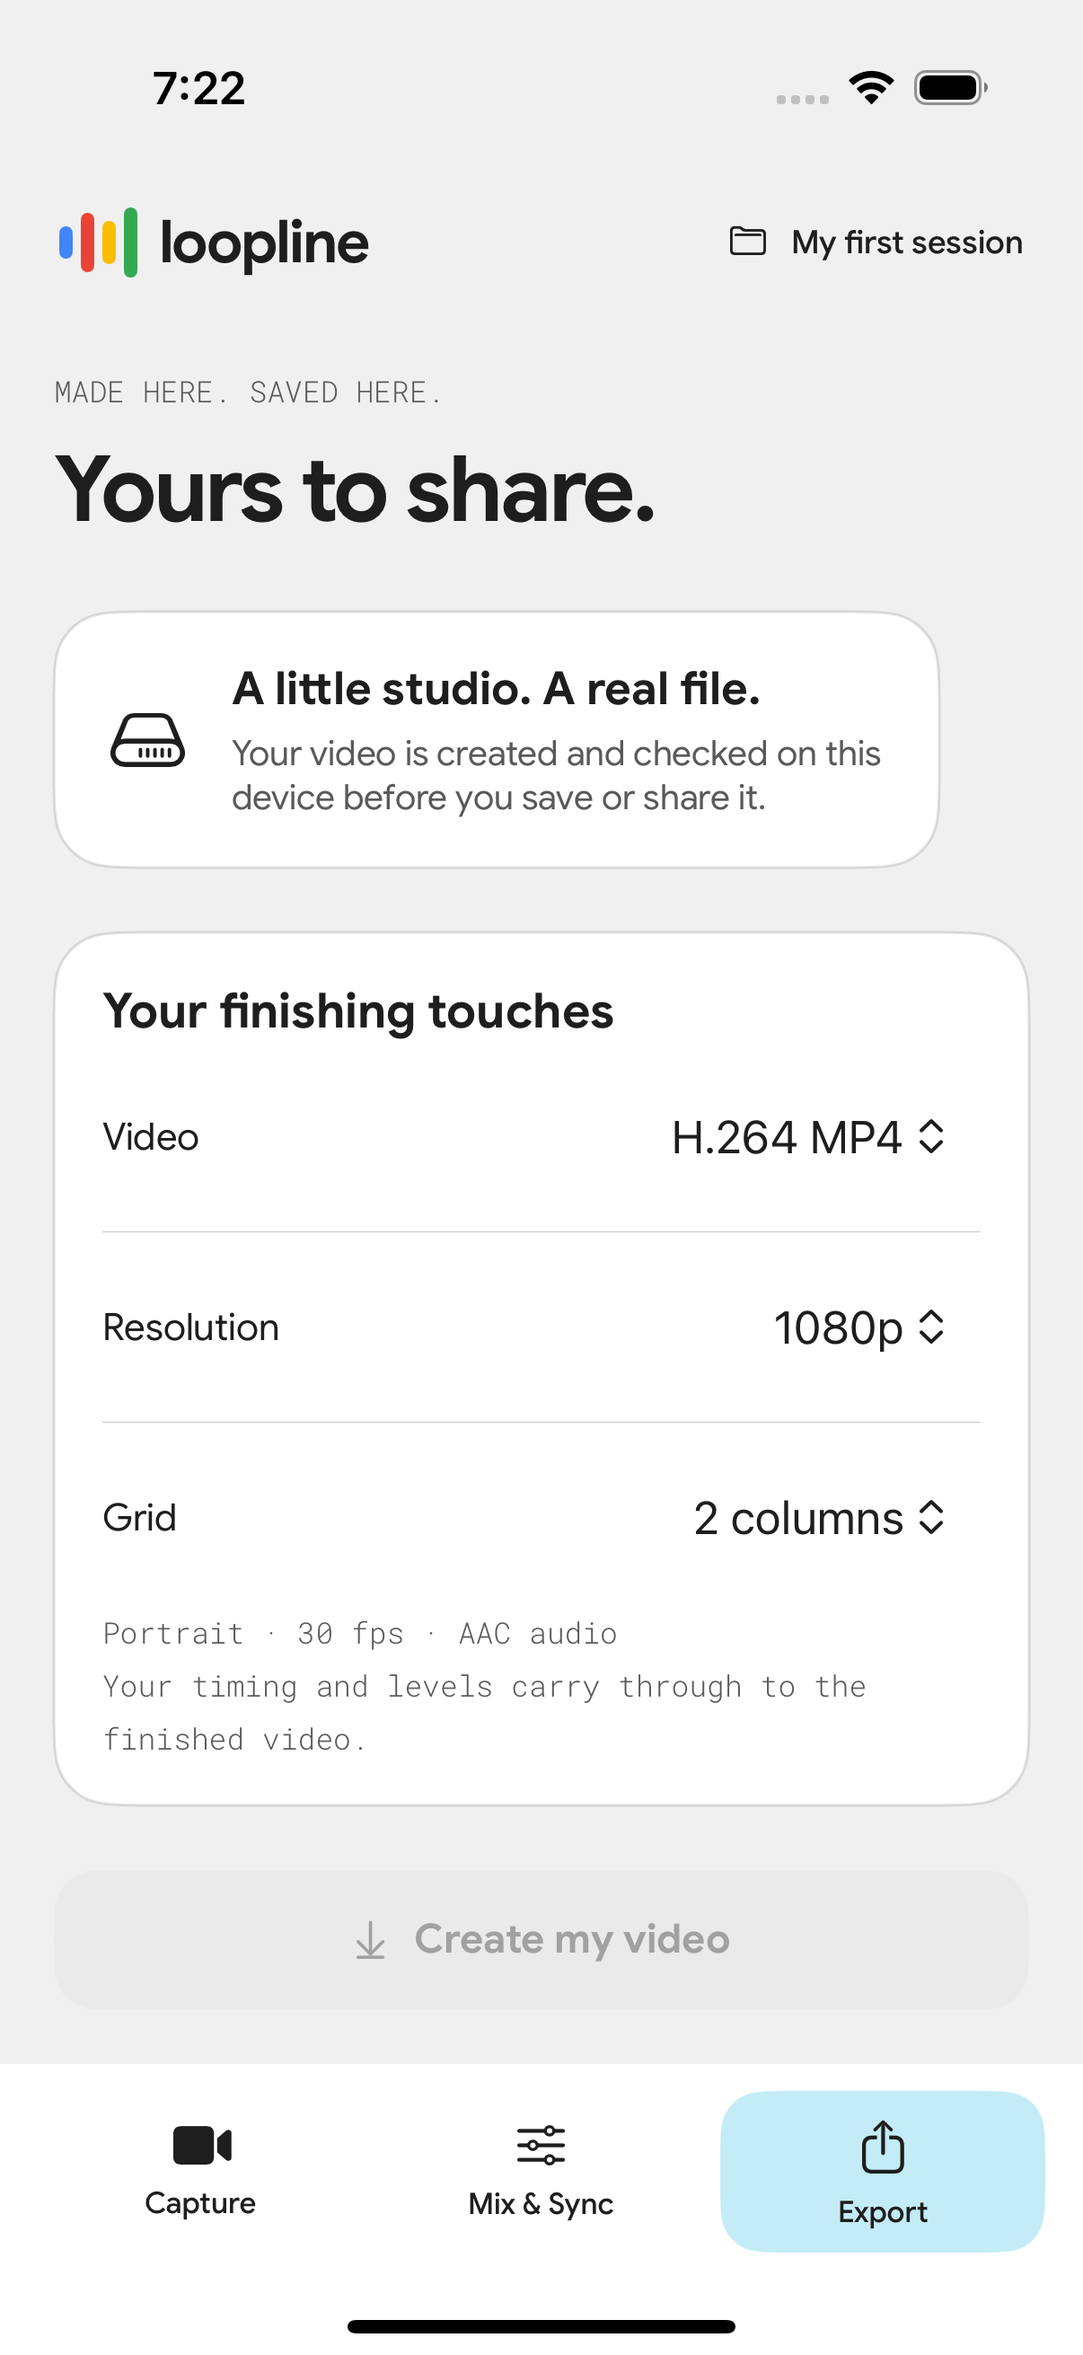
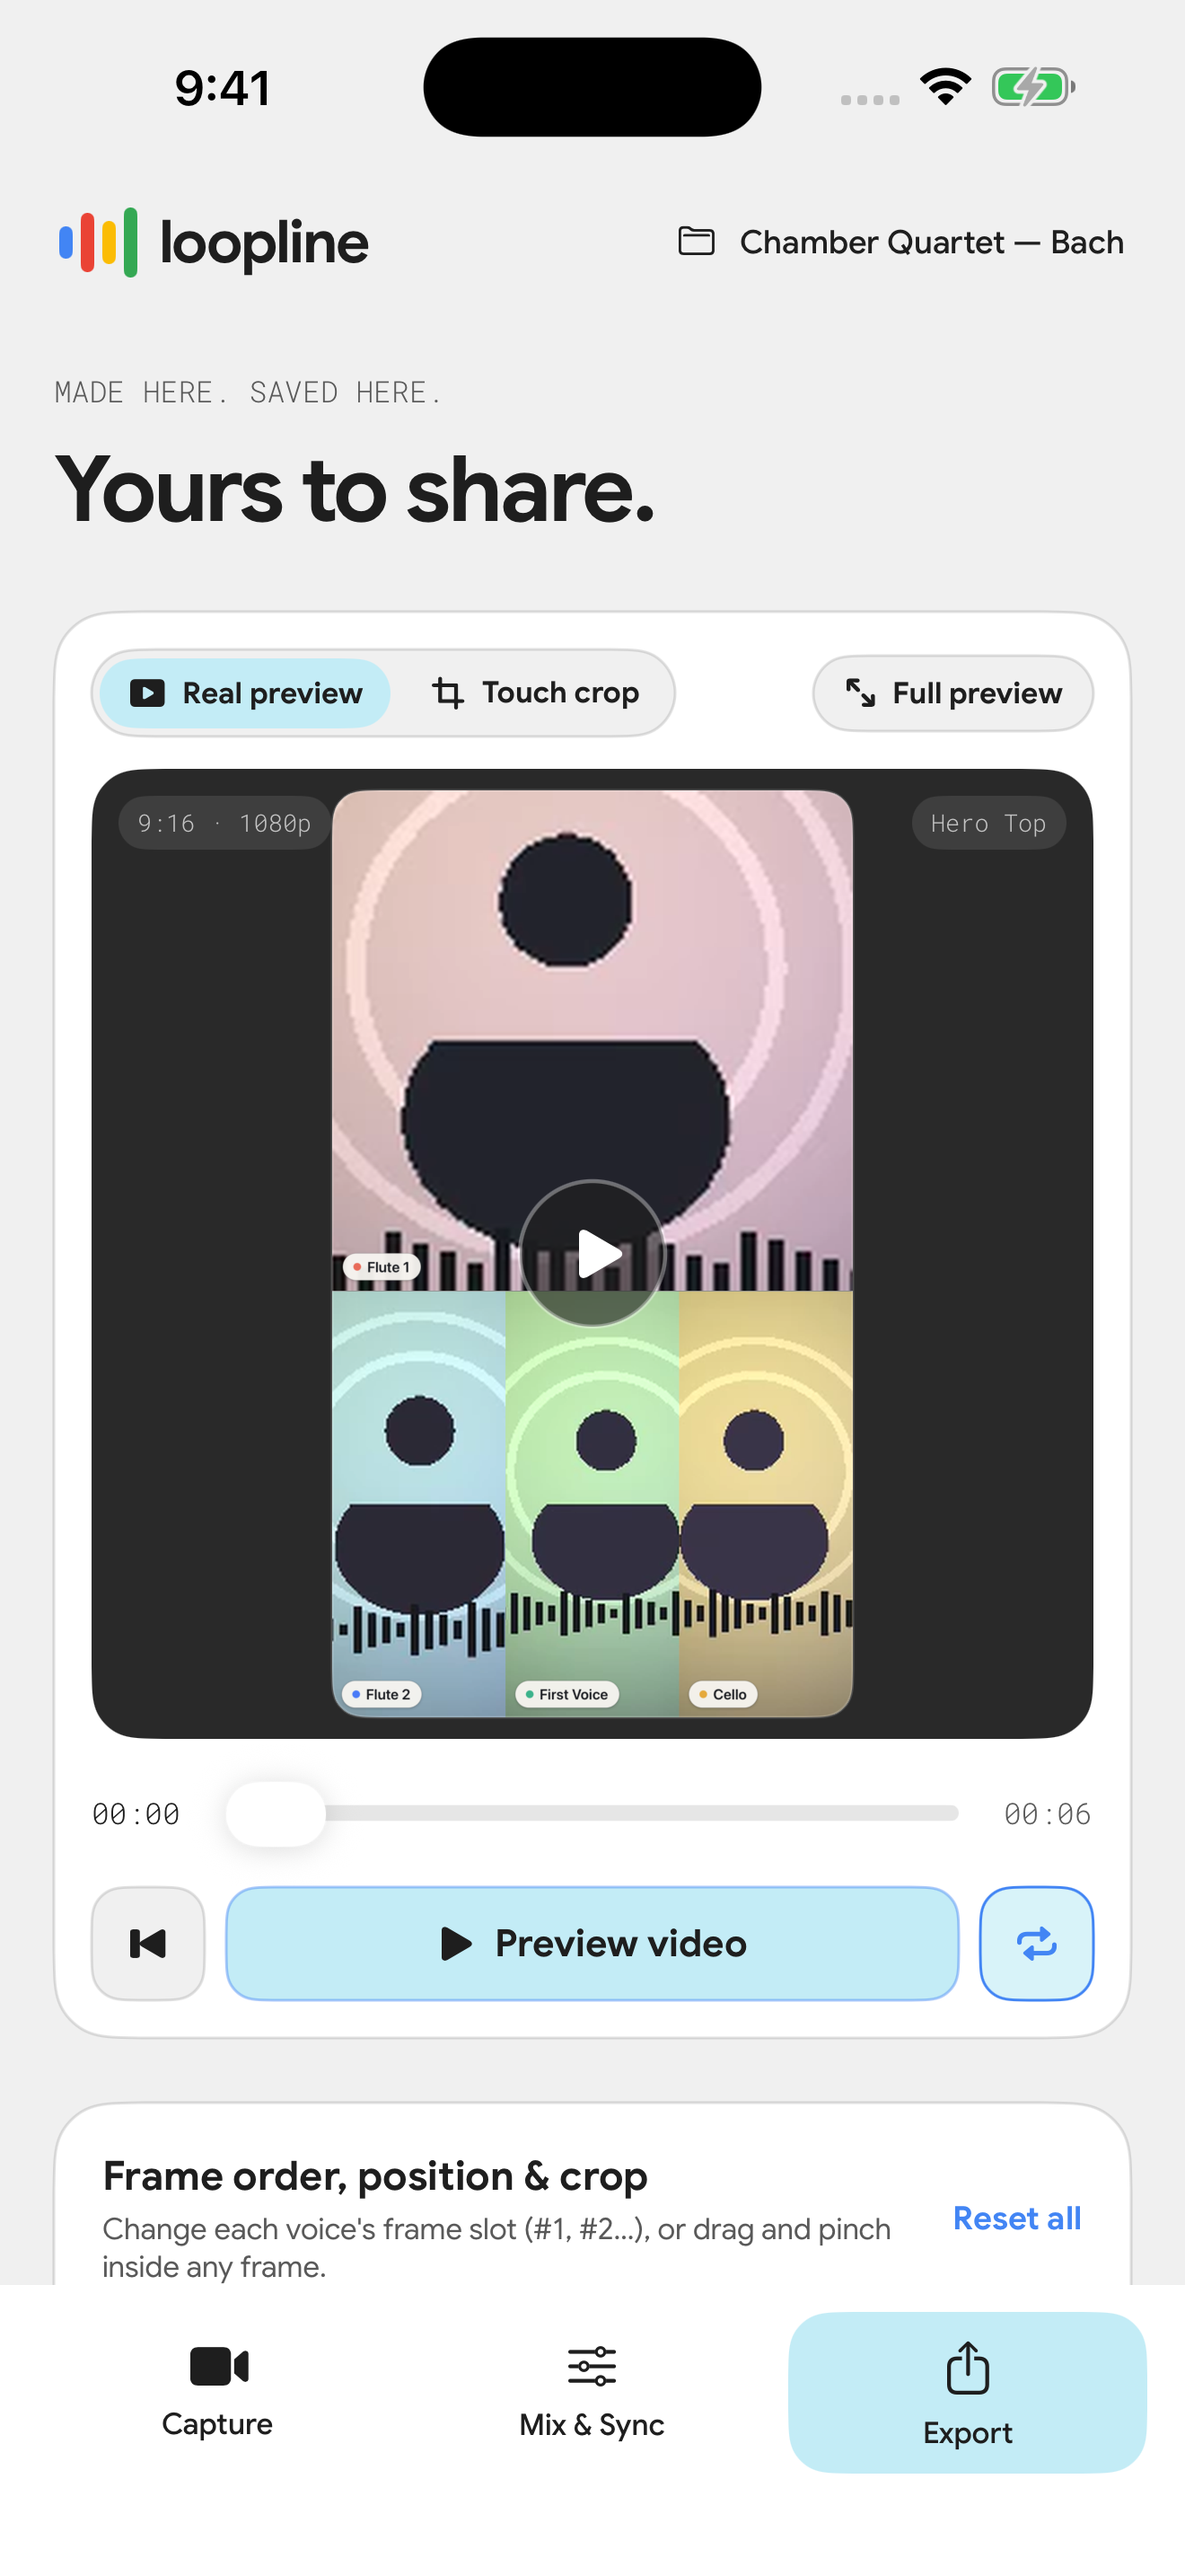
chore(screenshots): update docs screenshots and App Store generator from real iPhone & iPad simulators

diff --git a/scripts/generate_appstore_screenshots.swift b/scripts/generate_appstore_screenshots.swift
@@ -1,0 +1,249 @@
+#!/usr/bin/env swift
+import AppKit
+import CoreGraphics
+import Foundation
+
+let root = URL(fileURLWithPath: "/Users/sebas/Documents/loopline")
+let rawDir = root.appendingPathComponent("docs/screenshots")
+let outRoot = root.appendingPathComponent("build/appstore_screenshots")
+
+struct Accent {
+    let dot: NSColor
+    let pillBg: NSColor
+}
+
+let accents: [Accent] = [
+    Accent(dot: NSColor(srgbRed: 37/255, green: 99/255, blue: 235/255, alpha: 1),
+           pillBg: NSColor(srgbRed: 201/255, green: 237/255, blue: 248/255, alpha: 1)),
+    Accent(dot: NSColor(srgbRed: 16/255, green: 185/255, blue: 129/255, alpha: 1),
+           pillBg: NSColor(srgbRed: 209/255, green: 250/255, blue: 229/255, alpha: 1)),
+    Accent(dot: NSColor(srgbRed: 245/255, green: 158/255, blue: 11/255, alpha: 1),
+           pillBg: NSColor(srgbRed: 254/255, green: 243/255, blue: 199/255, alpha: 1)),
+    Accent(dot: NSColor(srgbRed: 239/255, green: 68/255, blue: 68/255, alpha: 1),
+           pillBg: NSColor(srgbRed: 254/255, green: 226/255, blue: 226/255, alpha: 1)),
+    Accent(dot: NSColor(srgbRed: 99/255, green: 102/255, blue: 241/255, alpha: 1),
+           pillBg: NSColor(srgbRed: 224/255, green: 231/255, blue: 255/255, alpha: 1)),
+]
+
+struct SceneMeta {
+    let index: Int
+    let badge: String
+    let title: String
+    let subtitle: String
+}
+
+let scenesByLocale: [String: [SceneMeta]] = [
+    "es-MX": [
+        SceneMeta(index: 1, badge: "01 · ESTUDIO EN IPHONE E IPAD", title: "Cada parte. Todo tú.", subtitle: "Graba voces o instrumentos con metrónomo visual, cuenta regresiva y monitoreo local."),
+        SceneMeta(index: 2, badge: "02 · VISTA PREVIA REAL Y COMPLETA", title: "Previsualiza tu arreglo.", subtitle: "Reproduce tu mosaico multipista completo en 9:16, 1:1 o 16:9 antes de exportar."),
+        SceneMeta(index: 3, badge: "03 · SINCRONIZACIÓN AL MILISEGUNDO", title: "Mejor en conjunto.", subtitle: "Alinea tus pistas con Sync Assist automático o ajusta cada voz con precisión."),
+        SceneMeta(index: 4, badge: "04 · ENCUADRE TÁCTIL Y ORDEN DE VOCES", title: "Encuadra cada toma.", subtitle: "Cambia el orden de los marcos, arrastra para encuadrar y haz zoom en cada video."),
+        SceneMeta(index: 5, badge: "05 · 100 % EN TU DISPOSITIVO", title: "Tus sesiones, contigo.", subtitle: "Organiza tus proyectos multipista sin cuentas, sin nube y con privacidad total.")
+    ],
+    "en-US": [
+        SceneMeta(index: 1, badge: "01 · IPHONE & IPAD STUDIO", title: "Every part. All you.", subtitle: "Record vocals or instruments with visual count-in, metronome, and local monitoring."),
+        SceneMeta(index: 2, badge: "02 · REAL & FULL VIDEO PREVIEW", title: "Preview before export.", subtitle: "Play back your complete multi-track collage in 9:16, 1:1, or 16:9 before rendering."),
+        SceneMeta(index: 3, badge: "03 · MILLISECOND SYNC ASSIST", title: "Better together.", subtitle: "Align every take automatically with Sync Assist or nudge timing by milliseconds."),
+        SceneMeta(index: 4, badge: "04 · TOUCH CROP & VOICE REORDERING", title: "Frame every performance.", subtitle: "Reorder voice slots and drag or pinch inside any frame in the enlarged Touch Crop canvas."),
+        SceneMeta(index: 5, badge: "05 · 100% ON-DEVICE PRIVACY", title: "Your sessions, saved locally.", subtitle: "Manage multi-part arrangements offline with zero accounts, zero cloud, and zero tracking.")
+    ]
+]
+
+let bgColor = NSColor(srgbRed: 244/255, green: 245/255, blue: 242/255, alpha: 1)
+let inkPrimary = NSColor(srgbRed: 29/255, green: 32/255, blue: 31/255, alpha: 1)
+let inkSecondary = NSColor(srgbRed: 82/255, green: 88/255, blue: 86/255, alpha: 1)
+
+func renderPoster(
+    width: Int,
+    height: Int,
+    rawURL: URL,
+    meta: SceneMeta,
+    accent: Accent,
+    isIPad: Bool,
+    outURL: URL
+) throws {
+    guard let rawImage = NSImage(contentsOf: rawURL),
+          let rawCG = rawImage.cgImage(forProposedRect: nil, context: nil, hints: nil) else {
+        throw NSError(domain: "ScreenshotGen", code: 1, userInfo: [NSLocalizedDescriptionKey: "Failed to load \(rawURL.path)"])
+    }
+
+    let colorSpace = CGColorSpace(name: CGColorSpace.sRGB)!
+    guard let ctx = CGContext(
+        data: nil,
+        width: width,
+        height: height,
+        bitsPerComponent: 8,
+        bytesPerRow: width * 4,
+        space: colorSpace,
+        bitmapInfo: CGImageAlphaInfo.noneSkipLast.rawValue
+    ) else {
+        throw NSError(domain: "ScreenshotGen", code: 2, userInfo: nil)
+    }
+
+    let W = CGFloat(width)
+    let H = CGFloat(height)
+
+    ctx.translateBy(x: 0, y: H)
+    ctx.scaleBy(x: 1, y: -1)
+
+    let nsCtx = NSGraphicsContext(cgContext: ctx, flipped: true)
+    NSGraphicsContext.saveGraphicsState()
+    NSGraphicsContext.current = nsCtx
+
+    // Fill background
+    bgColor.setFill()
+    NSBezierPath(rect: NSRect(x: 0, y: 0, width: W, height: H)).fill()
+
+    let marginX: CGFloat = isIPad ? 140 : 84
+    var cursorY: CGFloat = isIPad ? 92 : 88
+
+    let badgeFont = NSFont.monospacedSystemFont(ofSize: isIPad ? 28 : 25, weight: .medium)
+    let titleFont = NSFont.systemFont(ofSize: isIPad ? 80 : 68, weight: .bold)
+    let subFont = NSFont.systemFont(ofSize: isIPad ? 42 : 36, weight: .regular)
+
+    // 1. Pill badge
+    let badgeAttrs: [NSAttributedString.Key: Any] = [
+        .font: badgeFont,
+        .foregroundColor: inkPrimary,
+        .kern: 1.2
+    ]
+    let badgeStr = NSAttributedString(string: meta.badge, attributes: badgeAttrs)
+    let badgeSize = badgeStr.size()
+    let pillH: CGFloat = isIPad ? 64 : 58
+    let pillW: CGFloat = badgeSize.width + 86
+
+    let pillRect = NSRect(x: marginX, y: cursorY, width: pillW, height: pillH)
+    accent.pillBg.setFill()
+    NSBezierPath(roundedRect: pillRect, xRadius: pillH / 2, yRadius: pillH / 2).fill()
+
+    let dotR: CGFloat = 10
+    let dotRect = NSRect(x: marginX + 22, y: cursorY + (pillH - dotR * 2) / 2, width: dotR * 2, height: dotR * 2)
+    accent.dot.setFill()
+    NSBezierPath(ovalIn: dotRect).fill()
+
+    badgeStr.draw(at: NSPoint(x: marginX + 54, y: cursorY + (pillH - badgeSize.height) / 2))
+    cursorY += pillH + 26
+
+    // 2. Title
+    let titleAttrs: [NSAttributedString.Key: Any] = [
+        .font: titleFont,
+        .foregroundColor: inkPrimary,
+        .kern: -1.4
+    ]
+    let titleStr = NSAttributedString(string: meta.title, attributes: titleAttrs)
+    let titleSize = titleStr.size()
+    titleStr.draw(at: NSPoint(x: marginX, y: cursorY))
+    cursorY += titleSize.height + 16
+
+    // 3. Subtitle wrapped
+    let para = NSMutableParagraphStyle()
+    para.lineSpacing = 6
+    let subAttrs: [NSAttributedString.Key: Any] = [
+        .font: subFont,
+        .foregroundColor: inkSecondary,
+        .paragraphStyle: para
+    ]
+    let maxTextW = W - marginX * 2
+    let subStr = NSAttributedString(string: meta.subtitle, attributes: subAttrs)
+    let subBounds = subStr.boundingRect(
+        with: NSSize(width: maxTextW, height: 400),
+        options: [.usesLineFragmentOrigin, .usesFontLeading]
+    )
+    subStr.draw(
+        with: NSRect(x: marginX, y: cursorY, width: maxTextW, height: ceil(subBounds.height) + 12),
+        options: [.usesLineFragmentOrigin, .usesFontLeading]
+    )
+    cursorY += ceil(subBounds.height) + (isIPad ? 46 : 42)
+
+    // 4. Device Bezel + Raw Screenshot
+    let bottomMargin: CGFloat = isIPad ? 64 : 56
+    let availH = H - cursorY - bottomMargin
+    let availW = W - marginX * 2
+    let bezelPad: CGFloat = isIPad ? 26 : 22
+
+    let rawW = CGFloat(rawCG.width)
+    let rawH = CGFloat(rawCG.height)
+    let scale = min((availW - bezelPad * 2) / rawW, (availH - bezelPad * 2) / rawH)
+    let screenW = round(rawW * scale)
+    let screenH = round(rawH * scale)
+
+    let bezelW = screenW + bezelPad * 2
+    let bezelH = screenH + bezelPad * 2
+    let bezelX = round((W - bezelW) / 2)
+    let bezelY = round(cursorY + (availH - bezelH) / 2)
+
+    let outerRadius: CGFloat = isIPad ? 54 : 68
+    let innerRadius: CGFloat = isIPad ? 36 : 50
+
+    // Soft shadow + outer bezel
+    NSGraphicsContext.saveGraphicsState()
+    let shadow = NSShadow()
+    shadow.shadowOffset = NSSize(width: 0, height: -18)
+    shadow.shadowBlurRadius = 36
+    shadow.shadowColor = NSColor(srgbRed: 15/255, green: 23/255, blue: 42/255, alpha: 0.20)
+    shadow.set()
+
+    let bezelRect = NSRect(x: bezelX, y: bezelY, width: bezelW, height: bezelH)
+    let bezelPath = NSBezierPath(roundedRect: bezelRect, xRadius: outerRadius, yRadius: outerRadius)
+    NSColor(srgbRed: 26/255, green: 28/255, blue: 30/255, alpha: 1).setFill()
+    bezelPath.fill()
+    NSGraphicsContext.restoreGraphicsState()
+
+    // Subtle bezel border
+    NSColor(srgbRed: 68/255, green: 72/255, blue: 76/255, alpha: 1).setStroke()
+    bezelPath.lineWidth = 3
+    bezelPath.stroke()
+
+    // Clip inner screen and draw CGImage (unflipped inside CGContext or via NSImage)
+    NSGraphicsContext.saveGraphicsState()
+    let screenRect = NSRect(x: bezelX + bezelPad, y: bezelY + bezelPad, width: screenW, height: screenH)
+    let screenClip = NSBezierPath(roundedRect: screenRect, xRadius: innerRadius, yRadius: innerRadius)
+    screenClip.addClip()
+
+    nsCtx.imageInterpolation = .high
+    rawImage.draw(
+        in: screenRect,
+        from: NSRect(x: 0, y: 0, width: rawImage.size.width, height: rawImage.size.height),
+        operation: .copy,
+        fraction: 1.0,
+        respectFlipped: true,
+        hints: [.interpolation: NSImageInterpolation.high]
+    )
+    NSGraphicsContext.restoreGraphicsState()
+
+    NSGraphicsContext.restoreGraphicsState()
+
+    guard let outCG = ctx.makeImage() else {
+        throw NSError(domain: "ScreenshotGen", code: 3, userInfo: nil)
+    }
+    let rep = NSBitmapImageRep(cgImage: outCG)
+    guard let pngData = rep.representation(using: .png, properties: [:]) else {
+        throw NSError(domain: "ScreenshotGen", code: 4, userInfo: nil)
+    }
+    try FileManager.default.createDirectory(at: outURL.deletingLastPathComponent(), withIntermediateDirectories: true)
+    try pngData.write(to: outURL)
+}
+
+let fm = FileManager.default
+try? fm.removeItem(at: rawDir.appendingPathComponent("capture.png"))
+try? fm.removeItem(at: rawDir.appendingPathComponent("export.png"))
+try? fm.removeItem(at: rawDir.appendingPathComponent("mix.png"))
+try fm.copyItem(at: rawDir.appendingPathComponent("iphone_scene_1.png"), to: rawDir.appendingPathComponent("capture.png"))
+try fm.copyItem(at: rawDir.appendingPathComponent("iphone_scene_2.png"), to: rawDir.appendingPathComponent("export.png"))
+try fm.copyItem(at: rawDir.appendingPathComponent("iphone_scene_3.png"), to: rawDir.appendingPathComponent("mix.png"))
+
+for (locale, list) in scenesByLocale {
+    for (idx, meta) in list.enumerated() {
+        let accent = accents[idx]
+        let s = meta.index
+        let iphoneRaw = rawDir.appendingPathComponent("iphone_scene_\(s).png")
+        let ipadRaw = rawDir.appendingPathComponent("ipad_scene_\(s).png")
+
+        let iphoneOut = outRoot.appendingPathComponent("\(locale)/0\(s)_iphone67.png")
+        let ipadOut = outRoot.appendingPathComponent("\(locale)/0\(s)_ipad129.png")
+
+        try renderPoster(width: 1290, height: 2796, rawURL: iphoneRaw, meta: meta, accent: accent, isIPad: false, outURL: iphoneOut)
+        try renderPoster(width: 2064, height: 2752, rawURL: ipadRaw, meta: meta, accent: accent, isIPad: true, outURL: ipadOut)
+        print("[\(locale)] Generated 0\(s)_iphone67.png & 0\(s)_ipad129.png")
+    }
+}
